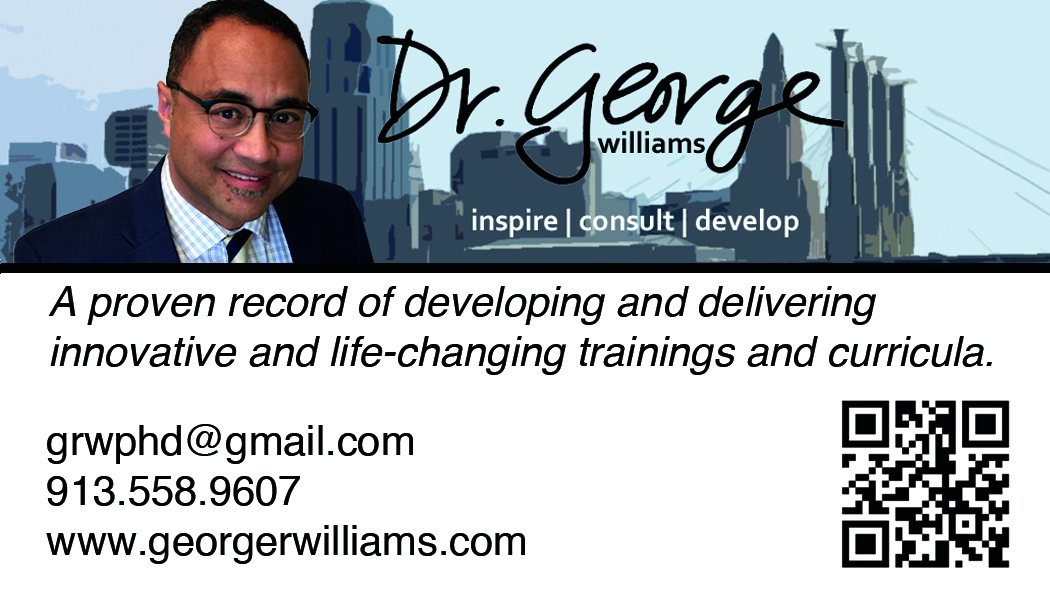
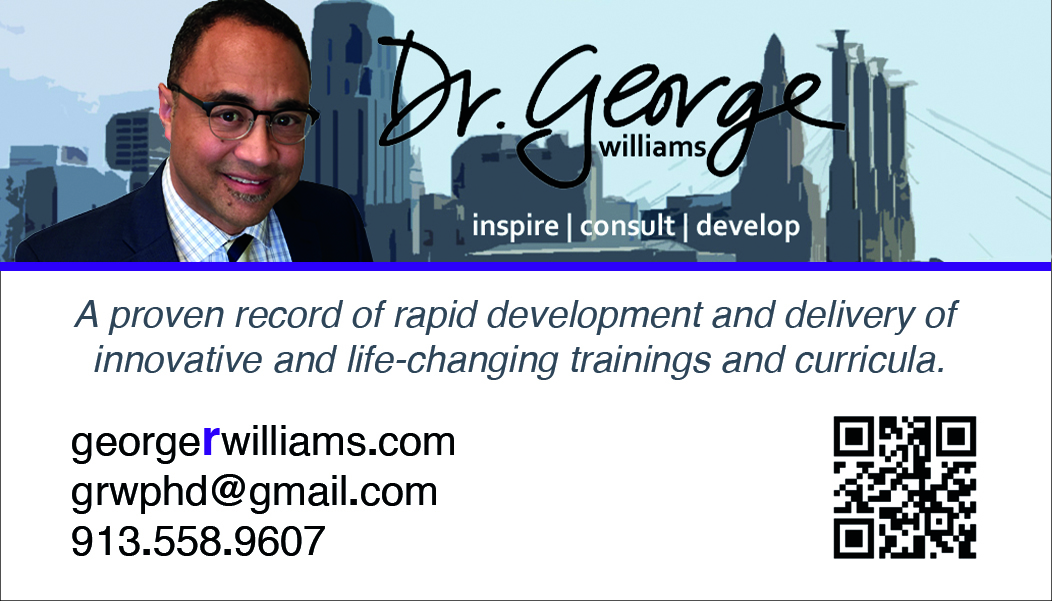
color and presentation update

diff --git a/media/publications.html b/media/publications.html
@@ -9,7 +9,7 @@
     <meta name="viewport" content="width=device-width, initial-scale=1">
 <style>
     a:hover {
-        color: #888;
+        color: grey;
         text-decoration: none;
     }
 ul {
@@ -33,11 +33,11 @@ li a {
 }
 
 li a:hover:not(.active) {
-    background-color: #46505a;
+    background-color: #512888;
 }
 
 .active {
-    background-color: #111;
+    background-color: black;
 }
 </style>
     </head>
@@ -69,61 +69,33 @@ li a:hover:not(.active) {
                 <div class="underline"></div>
                 <p>Click on the icon to download the publication.</p>
                 <div class="box">
-                    
-                    <p><b>Why Fathers Count</b></p>
-                    <table> <tr><td><a href="../supplements/whyfatherscount.pdf"><img src="../pictures/whyfatherscount.jpg"></a></td>
-                        <td>
-                    <p>Why Fathers Count: The Importance of Fathers and Their Involvement with Children (edited by Sean E. Brotherson and Joseph M. White) is an anthology (27 articles) dealing with the most important work men ever do - being totally involved in the lives of their children and families.  I authored chapter 8 on playing with your child</p>
-                    <p>It is men's strengths, their capacity to care and protect and give, that are needed by children, women, and men themselves. Why Fathers Count offers insight, giving a fresh and powerful perspective on the meaningful contributions of fathers and father figures to the lives of children and families.</p></td></tr></table>
+                    <center><a href="../supplements/whyfatherscount.pdf"><img src="../pictures/whyfatherscount.jpg"></a>
+                    <p><b>Why Fathers Count</b></p></center>
+                    <p>Authored the eighth chapter in this book on playing with your child. Why Fathers Count: The Importance of Fathers and Their Involvement with Children (edited by Sean E. Brotherson and Joseph M. White) is an anthology (27 articles) dealing with the most important work men ever do - being totally involved in the lives of their children and families.  Why Fathers Count offers insight, giving a fresh and powerful perspective on the meaningful contributions of fathers and father figures to the lives of children and families.</p>
                    
                 </div>
                 <div class="box">
-                    <p><b>Quenching the Father-Thirst</b></p>
-                    <table> <tr><td><a href="../supplements/qft.pdf"><img src="../pictures/qft.jpg"></a></td>
-                        <td>
-                    <p>Quenching the Father Thirst: Developing a Dad is a breakthrough curriculum of the National Center for Fathering to train men to become responsible fathers/father figures that love, know and guide their children to success.  I wrote this curriculum based on my experience working in a drug court diversion program and fathering court diversion program after completing my Master's in Marriage and Family Therapy.</p>
-                            <p>This research and theory-based curriculum is a blueprint for guided programming interventions with fathers and is designed to be useful for fathers in any social service based setting (courts, prisons, employment agencies, hospitals, drug rehabilitation centers, etc.) in any fathering situation (teen, single, married, divorced, non-custodial, step, father-figures etc.). It is a tool to transform the dysfunctional father into a functioning father and the functioning father into a higher functioning father.</p></td></tr></table>
+                    <center><a href="../supplements/qft.pdf"><img src="../pictures/qft.jpg"></a>
+                    <p><b>Quenching the Father-Thirst</b></p></center>
+                    <p>Authored the breakthrough curriculum Quenching the Father Thirst: Developing a Dad for the National Center for Fathering to train men to become responsible fathers/father figures that love, know and guide their children to success.  This research and theory-based curriculum is a blueprint for guided programming interventions with fathers and is designed to be useful for fathers in any social service based setting (courts, prisons, employment agencies, hospitals, drug rehabilitation centers, etc.) in any fathering situation (teen, single, married, divorced, non-custodial, step, father-figures etc.). It is a tool to transform the dysfunctional father into a functioning father and the functioning father into a higher functioning father.</p>
                 </div>
-                 <div class="box">
-                    <p><b>READ to Kids curriculum</b></p>
-                    <table> <tr><td><a href="../supplements/r2k.pdf"><img src="../pictures/r2k.jpg"></a></td>
-                        <td><p>READ (Reconnect Education and Dads) to Kids is a research-based elementary school curriculum and program designed to improve father/father-figure involvement with their child’s education through practical fathering skills, the practice of reading, partnering with the child’s teacher and their presence at the school.</p>
-
-<p>The R.E.A.D. to Kids curriculum was designed with four specific attainable goals:
-<br>-Dads practice reading to their children at least five (5) minutes a day, five (5) days a week.
-<br>-Dads partner with their child’s teacher by visiting at least once a month.
-<br>-Dads are present at their child’s school at least twice a month.
-<br>-Dads will learn practical on-going fathering skills they can use daily to help children at school and home.
-</p></td></tr></table>
-                </div>
-                  <div class="box">
-                    <p><b>The Coach Dads curriculum</b></p>
-                    <table> <tr><td><a href="../supplements/cd.pdf"><img src="../pictures/cd.jpg"></a></td>
-                        <td><p>Coach DADS is a fun interactive father-child program created to encourage fathers and father figures of pre-school children to get involved in their child’s learning and development through play.  Coach DADS was developed by the National Center for Fathering to be integrated into the parental involvement and child development programming of local Head Start pre-school agencies. </p>
-                            <p>Coach DADS invites, prepares and involves fathers and father figures as “learning through play” coaches to reinforce the development of their child’s social competence,  school and life readiness; socially, physically, cognitively, and representationally8 received at the preschool site and at home.</p></td></tr></table>
-                </div>
+                
                 <div class="box">
-                    <p><b>Strong Dads, Super Kids curriculum</b></p>
-                    <table> <tr><td><a href="../supplements/strongdads.pdf"><img src="../pictures/strongdads.jpg"></a></td>
-                        <td><p>Through the Kansas Department for Children and Families' (DCF) partnership with Kansas head start and Kansas early head start, Strong Dads encouraged fathers to improve their children’s school-readiness across what Head Start identifies as four essential domains that include language and literacy, cognitive, physical, and social-emotional development. This is accomplished by promoting father engagement in the areas of playing, reading, talking and caring for their children.</p>
-                            <p>I wrote the Strong Dads curriculum that focused increasing father engagement for the well-being of their children. Research shows that a father’s love is just as important as a mother’s love in terms of a child’s happiness, well-being, social and academic success, emotional stability and self-esteem.</p></td></tr></table>
+                    
+                    <center><a href="../supplements/strongdads.pdf"><img src="../pictures/strongdads.jpg"></a><p><b>Strong Dads, Super Kids curriculum</b></p></center>
+                        <p>Through the Kansas Department for Children and Families' (DCF) partnership with Kansas head start and Kansas early head start, Strong Dads encouraged fathers to improve their children’s school-readiness across what Head Start identifies as four essential domains that include language and literacy, cognitive, physical, and social-emotional development. This is accomplished by promoting father engagement in the areas of playing, reading, talking and caring for their children.</p>
+                            <p>I wrote the Strong Dads curriculum that focused increasing father engagement for the well-being of their children. Research shows that a father’s love is just as important as a mother’s love in terms of a child’s happiness, well-being, social and academic success, emotional stability and self-esteem.</p>
                 </div>
                  <div class="box">
-                    <p><b>Hope Mentoring curriculum</b></p>
-                    <table> <tr><td><a href="../supplements/hope.pdf"><img src="../pictures/hope.jpg"></a></td>
+
+                    <center><a href="../supplements/hope.pdf"><img src="../pictures/hope.jpg"></a>
+                     <p><b>Hope Mentoring curriculum</b></p></center>
                         <td><p>The Kansas Department for Children and Families’ (DCF) purpose is to protect children, promote healthy families and encourage personal responsibility. The HOPE Mentoring program assists recipients of Temporary Assistance for Needy Families (TANF) to make a voluntary connection with a Mentor who will come alongside the Mentee and encourage him/her in pursuing opportunities to grow in self-reliance.
 </p>
                             <p>
-The National Mentoring Partnership (Mentor, 2006) conducted poll on mentoring, surveying formal and informal adult mentors and non-mentors. Mentors were surveyed about the challenges they faced during mentoring and responded that their experiences could have been improved and challenges overcome in a number of ways including:  Having more materials/resources available  Being better informed/more knowledgeable  Receiving better training</p></td></tr></table>
+The National Mentoring Partnership (Mentor, 2006) conducted poll on mentoring, surveying formal and informal adult mentors and non-mentors. Mentors were surveyed about the challenges they faced during mentoring and responded that their experiences could have been improved and challenges overcome in a number of ways including:  Having more materials/resources available  Being better informed/more knowledgeable  Receiving better training</p>
                 </div>
-             <div class="box">
-                    <p><b>Males to MEN Fraternity curriculum</b></p>
-                    <table> <tr><td><a href="../supplements/m2mfrat.pdf"><img src="../pictures/m2mfrat.jpg"></a></td>
-                        <td><p>The Males to Men Fraternity (M2M) program helps the male students win in education and life.  M2M Fraternity supplements the Kauffman Scholar’s comprehensive programming by bringing in male facilitators to intentionally help re-educate and re-socialize these males in the knowledge, values and skills around becoming a mature man to position them for winning success in their education and personal life (Mincy, 2006).  Additionally, M2M Fraternity works with academic coaches, life coaches and parents, particularly fathers and father-figures to learn ways they can bring additional support to the students (McClanahan, 2003).</p>
-<p>M2M Fraternity begins with a twelve (12)-unit curriculum that can be completed in four (4) sessions.  The curriculum is based on four universal values of respect, responsibility, relationships and rightness (Williams, 2006) and integrates the topics of education, manhood, and life skills (Josephson, 2002).  At the completion of the twelve (12) units the males are brought into the M2M Fraternity that meet once a month for on-going support and service including recruiting and future mentoring elementary age male students in similar curriculum topics to set them on course to win through college (Tindale, et. al., 1998).</p>
-                           </td></tr></table>
-                </div></div>
-            
+              
         </div>
    
         <div class="container">
@@ -179,24 +151,45 @@ The National Mentoring Partnership (Mentor, 2006) conducted poll on mentoring, s
             <div class="item">
 
                 <h1>Presentations</h1>
+                <p>Quotes from conference attendees:</p>
+                <p>“George knows how to pull the audience in; there wasn’t a boring moment during the session; it was enjoyable and eye opening.  The audience was entertained and received current, pertinent and applicable information that made us think differently about fatherless children.” – Secret Lives of Men at UAC Conference for Family and Consumer Science</p>
+
+<p>“Amazing trainer; George knows what he is talking about!  I am a big fan!  Awesome at keeping my attention; it was inspirational, informative, and entertaining with the poems, songs and videos.  Made me evaluate my relationship with my father and why dads are so important in a child’s development. I absolutely recommend this session to others.” – Super Dads and Kids presentation for KCSL Parent Leadership Conference</p>
+
+<p> “Incredible and creative, this was the best presentation yet with excellent materials!  George is extremely charismatic, engaging and shows lots of passion for fatherhood.  I highly recommend this workshop again.  He touched my heart – made me want to work very hard to get/make it easier for father involvement in my program.” – Secret Life of Men at TFI Fatherhood Symposium</p>
+
+<p>“George was great; wow; fabulous; I wanted more.  I was very impressed with his knowledge, audience engagement and down-to-earth message.   It kept my attention and I felt what was being said through Life sentence without a father, Man jacked, the PowerPoint and handout.  The demonstrations and visuals really helped in understanding the impact of my actions in the relationships I have with others. This didn’t just apply to me and my family but my work, friends, and family members;”– It’s Better Together at KCSL Parent Leadership Conference</p>
+
+ <p>“This was the best training I attended.  I am impressed by the passion, sharing, and emotions that took place in this session.  Excellent visual illustrations engaged many modalities including music, word pictures, oral interpretation poetry, group participation (non-threatening) paring up with a partner.  George is very talented and his artistic ability to share amazing and most helpful information was thought-provoking and enlightening to me.” – Secret Life of Men at Governor’s Conference for the Prevention of Child Abuse and Neglect</p>
+
                 <div class="underline"></div> 
-                <p>Williams, G.R. (2010). The Role of Fathers in Family and Prevention. Prevention Summit 2010, Yakima, WA, October.</p>
-                <p>Williams, G.R. (2010). Best Man Best Dad. United States Penitentiary Life Connections Program, Leavenworth, KS, August.</p>
-                <p>Williams, G.R. (2010). Engaging Fathers. Strengthening the Family and Fatherhood Summit. Metro Development Council and Administration of Children and Families, Seattle, WA, March.</p>
-                <p>Williams, G.R. (2009). Black father involvement: A model for research and practice. Poster presentation at the National Council on Family Relations, San Francisco, CA, November.</p>
-                <p>Leohr, M., &amp; Williams, G.R. (2009). Educate your mind without losing it: Coping with the eco-demands of a Ph.D. Student. Poster presentation at the National Council on Family Relations, San Francisco, CA, November.</p>
-                <p>Williams, G.R. (2008). Why bring dad into the picture. Presented at the Maternal and Child Health Conference, Fort Walton, FL, October.</p>
-                <p>Williams, G.R. (2007). Giving judges another option: Fathering court. Presented at the International Fatherhood Conference, Atlanta, GA, July.</p>
-                <p>Williams, G.R. (2006). Dad out of the box. Presented at the Annual Hawaii Fatherhood Conference, Honolulu, April.</p>
-                <p>Williams, G.R. (2006). Dads as coaches. Presented at the National Association of Basketball Coaches, Indianapolis, IN, March.</p>
-                <p>Williams, G.R., Nichols, R., Johnson, A., &amp; Mabion, R. (2005). Manhood, Husbandhood and Fatherhood. Presented for the National Football League, Kansas City Chiefs, Kansas City, September.</p>
-                <p>Williams, G.R. (2005). Working with African American dads in challenging situations. Presented at the African America Forum on Child Support, Washington DC, September.</p>
-                <p>Williams, G.R. &amp; El-Scari, M. (2004) Dads coaching their children through play. Presented at the National Head Start Institute on Father Involvement Conference, Dallas, TX, June.</p>
-                <p>Williams, G.R. (2001). From deadbeat to dead-broke dads. Presented at the National Welfare Reform Conference, Washington, D.C., August.</p>
-                <p>Williams, G.R. (2002). Father absence and child abuse. Presented at the Governor’s Conference on Child Abuse and Neglect, Topeka, KS, September. Williams, G.R. (2002). Helping the urban father. Presented at the National Fatherhood Summit, San Antonio, TX, July.</p>
-                <p>Williams, G.R. (2001). The fatherhood solution to incarceration. Presented at the Annual Fathers Behind Bars Conference, Saint Louis, MO, October.</p>
-                <p>Williams, G.R. (2000). Introducing the Urban Father-Child Partnership. Presented at the Family Support America Conference, Chicago, IL, September.</p>
-                <p>Williams, G.R. (1999). R.E.A.D. (Reconnecting Education and Dads) to Kids, the National PTA Conference, Chicago, IL, September.</p>
+                <p>Williams, G.R. (2016). Fathers from trauma to drama to calm. Presented at the International Fatherhood Conference, Kansas City, KS in June.
+<p>Williams, G. R. (2016). The association between biological father involvement (quantity and quality) and family support with adult child well-being. Retrieved from http://gradworks.proquest.com/10/16/10161514.html. Dissertation proposal and defense at Kansas State University, Manhattan, KS in February and May.</p>
+<p>Williams, G.R. (2015). The father-factor in child well-being. Presented at the Governor’s Public Health Conference, Wichita, KS in April.</p>
+              <p>  Williams, G.R. (2013). The secret life of men: Fathers and child well-being.  UAC Conference for Family and Consumer Science, Wichita, KS in March.</p>
+Williams, G.R. (2012). The secret life of men: Fathers and child well-being.  Presented at the Governor’s Conference for the Prevention of Child Abuse and Neglect, Wichita, KS in November.
+                <p>Williams, G.R. (2012). Super dads and kids. Presented at the Kansas Children’s Service League Parent Leadership Conference, Topeka, KS in October.</p>
+<p>Williams, G.R. (2012). It’s better together: Fatherhood and healthy relationships.  Presented at the Parent Leadership Conference, Topeka, KS in June.</p>
+<p>Williams, G.R. (2012). The secret life of men: Fathers and child well-being.  Presented at TFI Family Services’ Fatherhood Symposium II, Topeka, KS in May.</p>
+<p>Williams, G.R. (2010). The Role of Fathers in Family and Prevention. Prevention Summit 2010, Yakima, WA in October.</p>
+<p>Williams, G.R. (2010). Everyday Dads. United States Penitentiary Life Connections Program, Leavenworth, KS in August.</p>
+<p>Williams, G.R. (2010). Engaging Fathers. Strengthening the Family and Fatherhood Summit. Metro Development Council and Administration of Children and Families, Seattle, WA in March.</p>
+<p>Williams, G.R. (2009). Black father involvement: A model for research and practice. Poster presentation at the National Council on Family Relations, San Francisco, CA in November.</p>
+<p>Leohr, M., and Williams, G.R. (2009). Educate your mind without losing it: Coping with the eco-demands of a Ph.D. Student. Poster presentation at the National Council on Family Relations, San Francisco, CA in November.</p>
+<p>Williams, G.R. (2008). Why bring dad into the picture. Presented at the Maternal and Child Health Conference, Fort Walton, FL in October.</p>
+<p>Williams, G.R. (2007). Giving judges another option: Fathering court. Presented at the International Fatherhood Conference, Atlanta, GA in July.</p>
+<p>Williams, G.R. (2006). Dad out of the box. Presented at the Annual Hawaii Fatherhood Conference, Honolulu in April.</p>
+<p>Williams, G.R. (2006). Dads as coaches. Presented at the National Association of Basketball Coaches, Indianapolis, IN in March.</p>
+<p>Williams, G.R., Nichols, R., Johnson, A., & Mabion, R. (2005). Manhood, Husbands and Fatherhood. Presented for the National Football League, Kansas City Chiefs, Kansas City in September.</p>
+<p>Williams, G.R. (2005). Working with African American dads in challenging situations. Presented at the African America Forum on Child Support, Washington DC in September.</p>
+<p>Williams, G.R. and El-Scari, M. (2004) Dads coaching their children through play. Presented at the National Head Start Institute on Father Involvement Conference, Dallas, TX in June.</p>
+<p>Williams, G.R. (2002). Father absence and child abuse. Presented at the Governor’s Conference on Child Abuse and Neglect, Topeka, KS, September.</p>
+<p>Williams, G.R. (2002). Helping the urban father. Presented at the National Fatherhood Summit, San Antonio, TX in July.</p>
+<p>Williams, G.R. (2001). From deadbeat to dead-broke dads. Presented at the National Welfare Reform Conference, Washington, D.C. in August.</p>
+<p>Williams, G.R. (2001). The fatherhood solution to incarceration. Presented at the Annual Fathers Behind Bars Conference, Saint Louis, MO in October.</p>
+<p>Williams, G.R. (2000). Introducing the Urban Father-Child Partnership. Presented at the Family Support America Conference, Chicago, IL in September.</p>
+<p>Williams, G.R. (1999). R.E.A.D. (Reconnecting Education and Dads) to Kids, the National PTA Conference, Chicago, IL in September.</p>
+</p>
             </div>
             
         </div>

diff --git a/index.html b/index.html
@@ -9,7 +9,7 @@
     <meta name="viewport" content="width=device-width, initial-scale=1">
 <style>
     a:hover {
-        color: #888;
+        color: grey;
         text-decoration: none;
     }
 ul {
@@ -33,11 +33,11 @@ li a {
 }
 
 li a:hover:not(.active) {
-    background-color: #46505a;
+    background-color: #512888;
 }
 
 .active {
-    background-color: #111;
+    background-color: black;
 }
 </style>
 </head>
@@ -51,7 +51,7 @@ li a:hover:not(.active) {
           <li><a href="media/contact.html"><img src="pictures/email.png">&nbsp;Contact</a></li>
     </ul>
     <div class="quote_background">
-        <div class="quote">A proven record of developing and delivering innovative and life-changing trainings and curricula.</div>
+        <div class="quote">A proven record of rapid development and delivery innovative and life-changing trainings and curricula.</div>
     </div>
     
     <div class="page">

diff --git a/main.css b/main.css
@@ -13,10 +13,10 @@ h1 {
     color: black;
 }
 a {
-    color: #87CEEB;
+    color: #512888;
 }
 a:hover {
-    color: green;
+    color: #512888;
 }
 
 /********************
@@ -29,7 +29,7 @@ a:hover {
     background-size: cover;
     background-position: top left;
     height: 160px;
-    border-bottom: 5px solid black;
+    border-bottom: 5px solid #512888;
 }
 .jumbotron .container {
     margin-bottom: 15px;
@@ -110,7 +110,7 @@ a:hover {
     margin-bottom: 20px;
 }
 .underline {
-    background-color: #87CEEB;
+    background-color: #512888;
     background-size: cover;
     height: 2px;
     margin-bottom: 10px;

diff --git a/consulting/experience.html b/consulting/experience.html
@@ -9,7 +9,7 @@
     <meta name="viewport" content="width=device-width, initial-scale=1">
 <style>
     a:hover {
-        color: #888;
+        color: grey;
         text-decoration: none;
     }
 ul {
@@ -33,11 +33,11 @@ li a {
 }
 
 li a:hover:not(.active) {
-    background-color: #46505a;
+    background-color: #512888;
 }
 
 .active {
-    background-color: #111;
+    background-color: black;
 }
 </style>
     </head>

diff --git a/intro/family.html b/intro/family.html
@@ -9,7 +9,7 @@
     <meta name="viewport" content="width=device-width, initial-scale=1">
 <style>
     a:hover {
-        color: #888;
+        color: grey;
         text-decoration: none;
     }
 ul {
@@ -33,11 +33,11 @@ li a {
 }
 
 li a:hover:not(.active) {
-    background-color: #46505a;
+    background-color: #512888;
 }
 
 .active {
-    background-color: #111;
+    background-color: black;
 }
 </style>
     </head>

diff --git a/media/contact.html b/media/contact.html
@@ -9,7 +9,7 @@
     <meta name="viewport" content="width=device-width, initial-scale=1">
 <style>
     a:hover {
-        color: #888;
+        color: grey;
         text-decoration: none;
     }
 ul {
@@ -33,11 +33,11 @@ li a {
 }
 
 li a:hover:not(.active) {
-    background-color: #46505a;
+    background-color: #512888;
 }
 
 .active {
-    background-color: #111;
+    background-color: black;
 }
 </style>
     </head>
